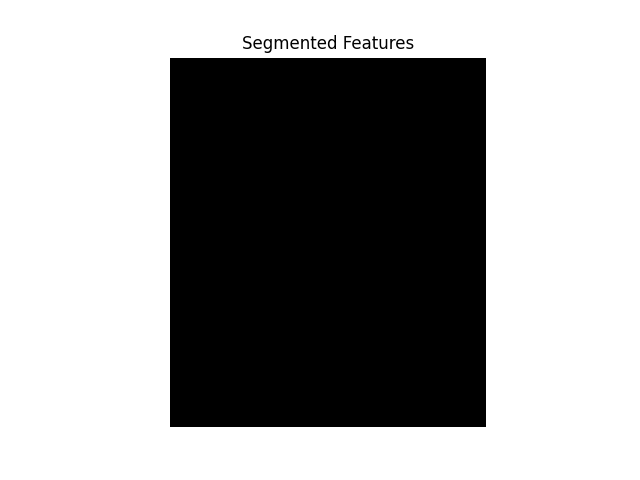
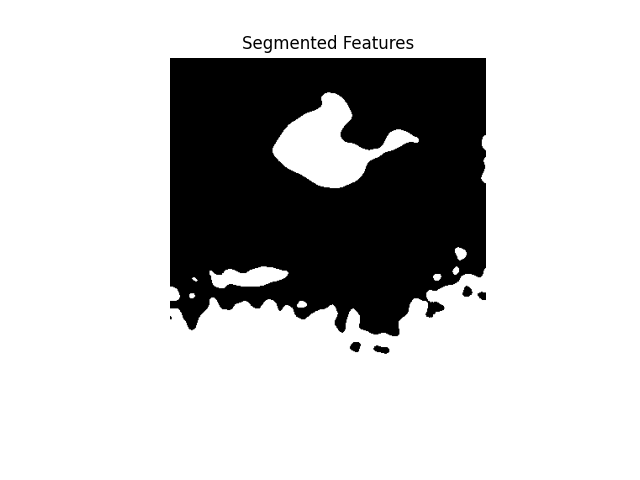
add Result

diff --git a/activeContour/activeContour.py b/activeContour/activeContour.py
@@ -3,6 +3,14 @@ import matplotlib.cm as cm
 import numpy as np
 import pylab as plb
 import copy
+from scipy.spatial.distance import cdist
+import os
+
+
+# 路径设置
+PROJECT_DIR = os.getcwd()
+INPUT = os.path.join(PROJECT_DIR, '..', 'BreastTumor')
+OUTPUT = os.path.join(PROJECT_DIR, '..', 'Result', 'activeContour')
 
 _ALPHA = 300
 _BETA = 2
@@ -114,12 +122,25 @@ def _pointsOnCircle(center, radius, num_points=12):
     return points
 
 
+def postprocess_contour(snake):
+    # 计算每个点之间的距离矩阵
+    distances = cdist(snake, snake)
+
+    # 找到每个点的最近邻
+    nearest_neighbors = np.argmin(distances, axis=1)
+
+    # 生成连续轮廓
+    new_contour = snake[nearest_neighbors]
+
+    return new_contour
+
+
 def activeContour(image_file, center, radius):
-    image = cv2.imread(image_file, 0)
+    image = cv2.imread(os.path.join(INPUT, image_file), 0)
     plb.ion()
     plb.figure(figsize=np.array(np.shape(image)) / 50.)
 
-    snake = _pointsOnCircle(center, radius, 20)
+    snake = _pointsOnCircle(center, radius, 50)
     grediant = basicImageGradiant(image)
     plb.ioff()
 
@@ -146,20 +167,55 @@ def activeContour(image_file, center, radius):
             snake[index] = (snake[index] + neighbors[indexOFlessEnergy])
         snakeColon = copy.deepcopy(snake)
 
+    # plb.ioff()
+    # _display(image, None, snake)
+    # plb.plot()
+    # # plb.savefig(os.path.splitext(image_file)[0] + "-segmented.png")
+    # plb.show()
+
     plb.ioff()
     _display(image, None, snake)
     plb.plot()
-    # plb.savefig(os.path.splitext(image_file)[0] + "-segmented.png")
+
+    # 后处理，获取连续轮廓
+    new_contour = postprocess_contour(snake)
+
+    # 显示连续轮廓
+    plb.plot(new_contour[:, 0], new_contour[:, 1], 'b-', markersize=10.0)
     plb.show()
 
-    return
+    # 创建空白图像
+    binary_image = np.zeros_like(image)
 
+    # 使用连续轮廓填充图像
+    cv2.fillPoly(binary_image, [new_contour.astype(int)], 255)
 
+    # 显示填充后的图像
+    cv2.imshow('Filled Image', binary_image)
+    cv2.imwrite(os.path.join(OUTPUT, image_file), binary_image)
+    cv2.waitKey(0)
 
-def _test():
-    activeContour("img.png", (231, 129), 60)
     return
 
 
 if __name__ == '__main__':
-    _test()
+    files = os.listdir(INPUT)
+    num = len(files)
+
+    centers = [(320, 103), (231, 129), (210, 162), (211, 101), (272, 171), (149, 121), (149, 121), (263, 147), (276, 228), (318, 146)]
+    radius = [40, 60, 141, 88, 160, 44, 44, 100, 122, 82]
+
+    for i in range(num):
+        print('processing: ', files[i])
+        activeContour(files[i], centers[i], radius[i])
+
+        # img = cv2.imread(os.path.join(INPUT, files[i]), 0)
+        # plb.ioff()
+        # _display(img)
+        # plb.plot()
+
+        plb.show()
+        # exit()
+
+
+
